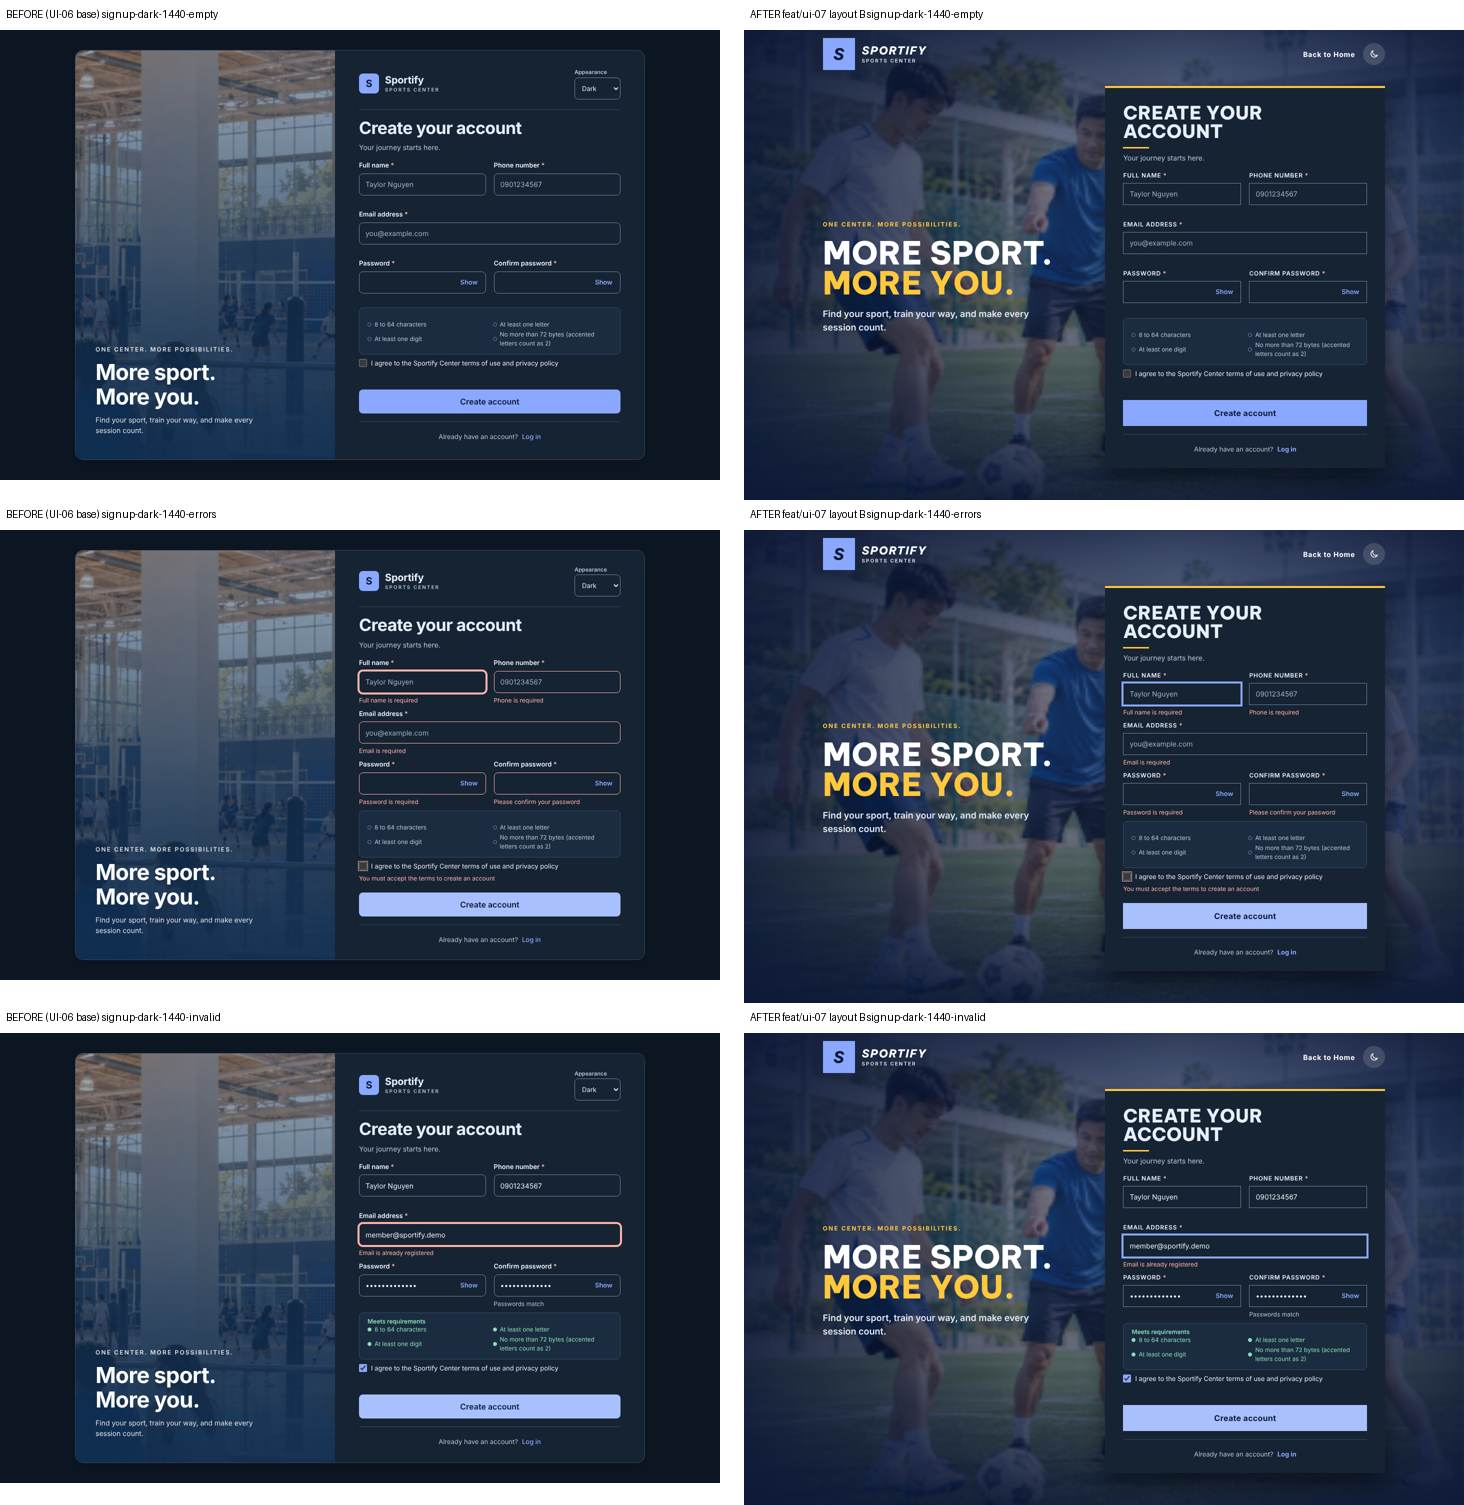
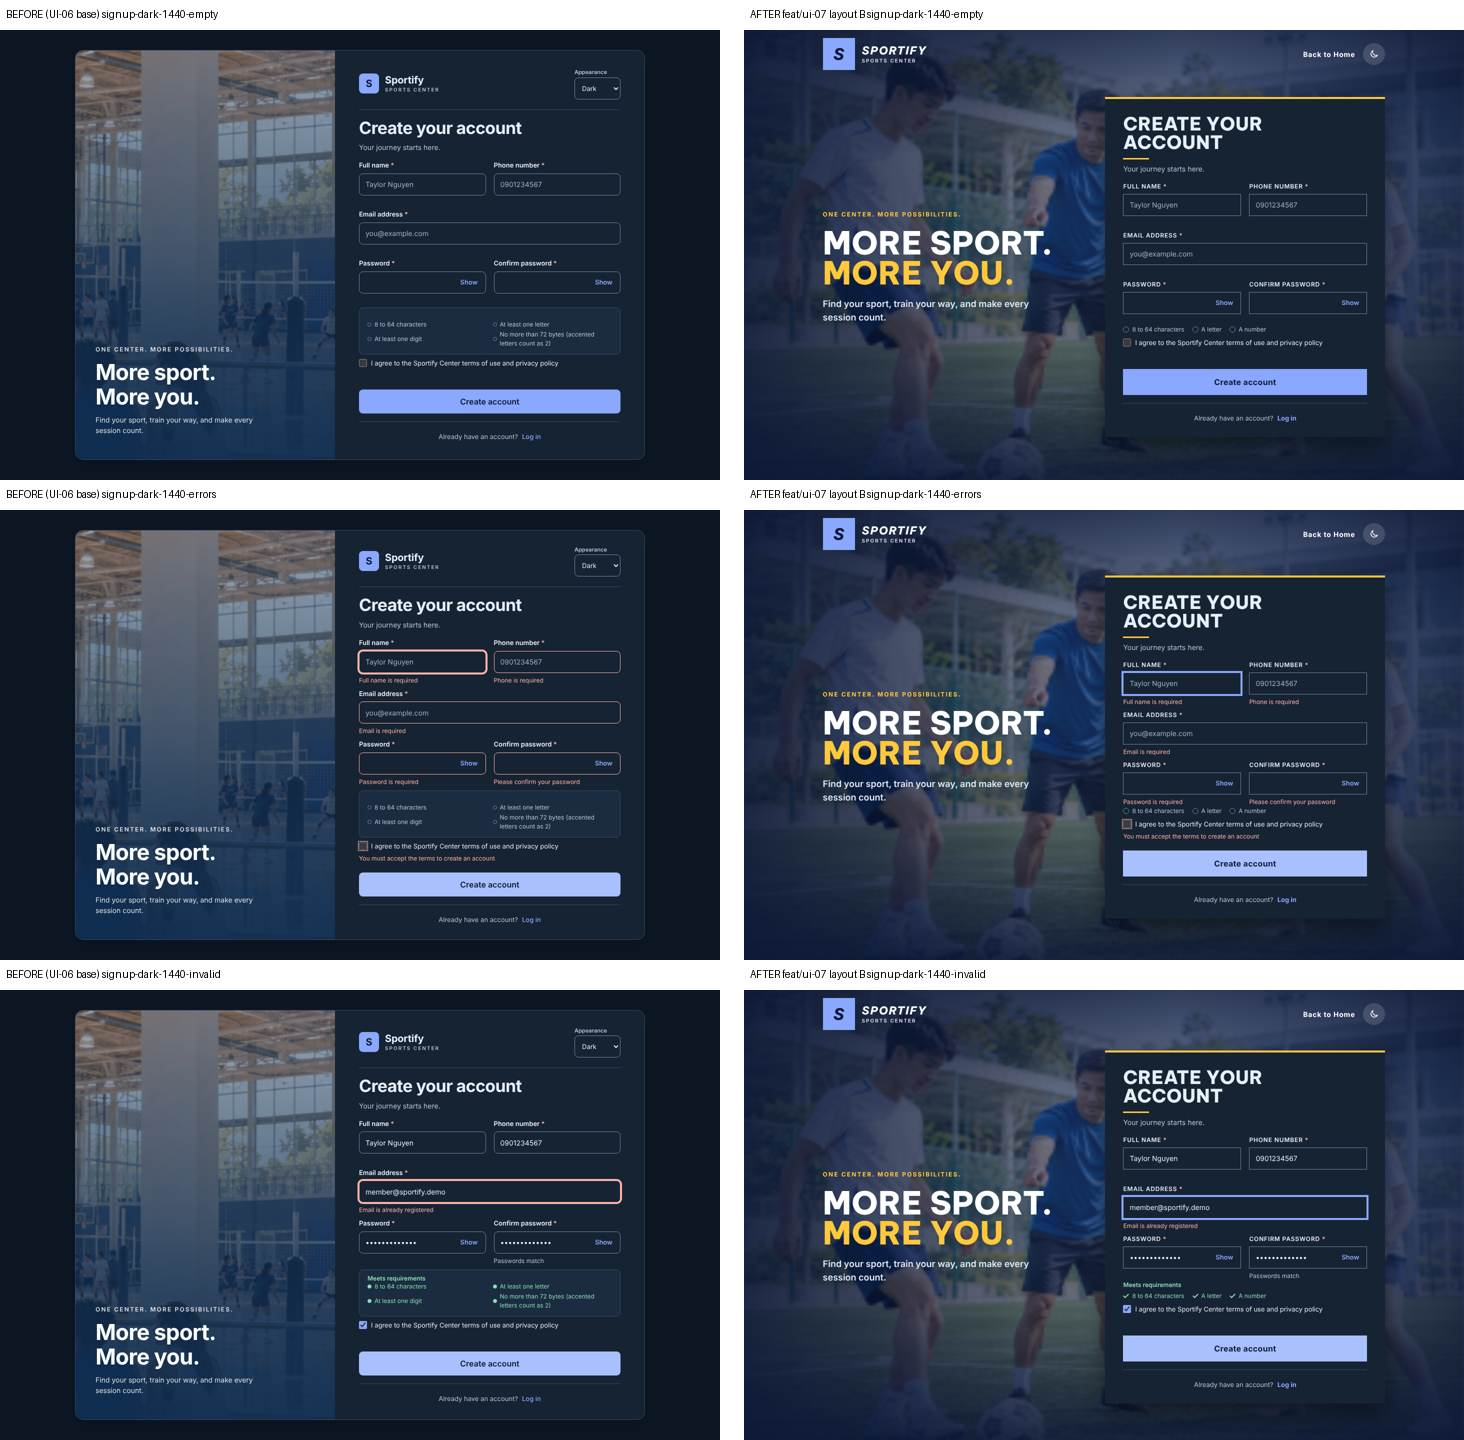
fix(ui-07): password checklist like real sign up forms
- Show only 8 to 64 characters, A letter, A number as one line with check marks, no box
- Show the 72 byte BCrypt limit only as an error line when a password breaks it (still enforced)
- Update tests, evidence, test cases and CHANGELOG

Claude-Session: https://claude.ai/code/session_01NaVe21WbR7JN7RVX8vDE8A

diff --git a/frontend/src/pages/public/authScreens.test.tsx b/frontend/src/pages/public/authScreens.test.tsx
@@ -1028,14 +1028,37 @@ describe('FE-01 review fixes (round 3)', () => {
       renderApp('/register')
       const password = await screen.findByLabelText(/^password/i)
 
-      for (const rule of ['length', 'letter', 'digit', 'bytes']) {
+      for (const rule of ['length', 'letter', 'digit']) {
         expect(document.querySelector(`[data-rule="${rule}"]`)).toHaveAttribute('data-met', 'false')
       }
+      expect(document.querySelector('[data-rule="bytes"]')).toBeNull()
       expect(screen.queryByText(/Password strength|Meets requirements/)).not.toBeInTheDocument()
 
       await user.type(password, 'a')
       await user.clear(password)
-      expect(document.querySelector('[data-rule="bytes"]')).toHaveAttribute('data-met', 'false')
+      expect(document.querySelector('[data-rule="bytes"]')).toBeNull()
+    })
+  })
+
+  describe('N6b byte limit only when broken', () => {
+    it('lists only length, a letter and a number, and shows the byte limit as an error only when the password breaks it', async () => {
+      installFakeFetch(authBackend())
+      const user = userEvent.setup()
+      renderApp('/register')
+      const password = await screen.findByLabelText(/^password/i)
+      await user.type(password, 'abc12345')
+      expect(screen.getByText('8 to 64 characters')).toBeInTheDocument()
+      expect(screen.getByText('A letter')).toBeInTheDocument()
+      expect(screen.getByText('A number')).toBeInTheDocument()
+      expect(screen.queryByText(/bytes|accented/)).not.toBeInTheDocument()
+
+      await user.clear(password)
+      await user.click(password)
+      await user.paste(`${'\u00E9'.repeat(36)}1`)
+      const tooLong = document.querySelector('[data-rule="bytes"]') as HTMLElement
+      expect(tooLong).toHaveAttribute('data-met', 'false')
+      expect(tooLong).toHaveClass('password-rules__item--error')
+      expect(within(tooLong).getByText('Too long: use fewer accented letters or symbols')).toBeInTheDocument()
     })
   })
 

diff --git a/frontend/src/components/PasswordRules.tsx b/frontend/src/components/PasswordRules.tsx
@@ -10,6 +10,8 @@ const PROGRESS_LABELS = {
 /**
  * Live checklist of the password rules (same rules as the backend @StrongPassword), shown under
  * a new password field. Used by Sign up (F1-06) and the change password form of My Profile (F1-08).
+ * Only the three rules people need to know are listed (length, a letter, a number), like most sign up forms.
+ * The 72 byte limit (BCrypt) appears only when a password breaks it, as an error line.
  */
 export function PasswordRules({ id, password }: { id: string; password: string }) {
   const rules = checkPassword(password)
@@ -22,10 +24,10 @@ export function PasswordRules({ id, password }: { id: string; password: string }
         </p>
       )}
       <ul className="password-rules__list">
-        {rules.map((rule) => (
+        {rules.filter((rule) => rule.id !== 'bytes' || (password !== '' && !rule.met)).map((rule) => (
           <li
             key={rule.id}
-            className={`password-rules__item${rule.met ? ' password-rules__item--met' : ''}`}
+            className={`password-rules__item${rule.met ? ' password-rules__item--met' : ''}${rule.id === 'bytes' ? ' password-rules__item--error' : ''}`}
             data-rule={rule.id}
             data-met={rule.met}
           >

diff --git a/frontend/src/styles/components.css b/frontend/src/styles/components.css
@@ -396,9 +396,9 @@
 }
 
 .password-rules__list {
-  display: grid;
-  grid-template-columns: repeat(2, minmax(0, 1fr));
-  gap: 2px var(--space-3);
+  display: flex;
+  flex-wrap: wrap;
+  gap: 4px 16px;
   margin: 0;
   padding: 0;
   list-style: none;
@@ -412,11 +412,13 @@
   color: var(--color-text-muted);
 }
 
+/* Empty circle until the rule is met, then a check mark. */
 .password-rules__item::before {
   content: '';
   flex-shrink: 0;
-  width: 8px;
-  height: 8px;
+  box-sizing: border-box;
+  width: 12px;
+  height: 12px;
   border: 1.5px solid var(--color-border-strong);
   border-radius: 50%;
 }
@@ -426,14 +428,22 @@
 }
 
 .password-rules__item--met::before {
-  border-color: var(--color-success);
-  background: var(--color-success);
+  width: 6px;
+  height: 11px;
+  margin: 0 3px 2px;
+  border: solid var(--color-success);
+  border-width: 0 2px 2px 0;
+  border-radius: 0;
+  transform: rotate(45deg);
 }
 
-@media (max-width: 640px) {
-  .password-rules__list {
-    grid-template-columns: 1fr;
-  }
+.password-rules__item--error {
+  flex-basis: 100%;
+  color: var(--color-danger);
+}
+
+.password-rules__item--error::before {
+  border-color: var(--color-danger);
 }
 
 .select-wrap {

diff --git a/frontend/src/styles/auth.test.ts b/frontend/src/styles/auth.test.ts
@@ -47,10 +47,10 @@ describe('Log in and Sign up theme (layout B)', () => {
     }
   })
 
-  it('squares fields, button and password rules, aligns the Remember me row, widens the Sign up card and folds the photo on narrow screens', () => {
+  it('squares fields and button, keeps the password checklist out of a box, aligns the Remember me row, widens the Sign up card and folds the photo on narrow screens', () => {
     expect(auth).toMatch(/\.auth-stage \.input \{[^}]*border-radius: 0;/)
     expect(auth).toMatch(/\.auth-stage \.auth-form \.btn--primary \{[^}]*border-radius: 0;/)
-    expect(auth).toMatch(/\.auth-stage \.password-rules \{[^}]*border-radius: 0;/)
+    expect(`${auth}\n${layouts}`).not.toMatch(/\.password-rules \{[^}]*(border|background):/)
     expect(auth).toMatch(/\.auth-stage \.auth-form__options \{[^}]*align-items: flex-start;/)
     expect(auth).toMatch(/\.auth-shell--register \.auth-stage__body \{[^}]*grid-template-columns: minmax\(0, 1fr\) 560px;/)
     expect(auth).toMatch(/@media \(max-width: 960px\) \{[\s\S]*?\.auth-stage__photo,\s*\.auth-stage::before \{[^}]*height: 360px;/)

diff --git a/frontend/src/auth/passwordRules.ts b/frontend/src/auth/passwordRules.ts
@@ -58,11 +58,12 @@ export function checkPassword(value: string): PasswordRuleResult[] {
       label: `${PASSWORD_MIN_LENGTH} to ${PASSWORD_MAX_LENGTH} characters`,
       met: value.length >= PASSWORD_MIN_LENGTH && value.length <= PASSWORD_MAX_LENGTH,
     },
-    { id: 'letter', label: 'At least one letter', met: codeUnitMatches(value, LETTER) },
-    { id: 'digit', label: 'At least one digit', met: codeUnitMatches(value, DIGIT) },
+    { id: 'letter', label: 'A letter', met: codeUnitMatches(value, LETTER) },
+    { id: 'digit', label: 'A number', met: codeUnitMatches(value, DIGIT) },
     {
       id: 'bytes',
-      label: `No more than ${PASSWORD_MAX_BYTES} bytes (accented letters count as 2)`,
+      // Only shown when broken (see PasswordRules): the BCrypt byte limit is a technical rule people rarely reach.
+      label: 'Too long: use fewer accented letters or symbols',
       met: !empty && utf8ByteLength(value) <= PASSWORD_MAX_BYTES,
     },
   ]

diff --git a/frontend/src/styles/layouts.css b/frontend/src/styles/layouts.css
@@ -106,18 +106,9 @@
   min-height: 46px;
 }
 
-.auth-form .password-rules__strength {
-  position: absolute;
-  top: var(--space-2);
-  left: var(--space-4);
-}
-
+/* Password checklist sits under the two password fields as one quiet line, no box. */
 .auth-form .password-rules {
-  position: relative;
-  padding: var(--space-6) var(--space-4) var(--space-3);
-  border: 1px solid var(--color-border);
-  border-radius: var(--radius-md);
-  background: var(--color-surface-muted);
+  margin-top: calc(var(--space-2) * -1);
 }
 
 .auth-form .btn {

diff --git a/frontend/src/styles/auth.css b/frontend/src/styles/auth.css
@@ -229,12 +229,6 @@
   font-size: clamp(3rem, 4.4vw, 4.25rem);
 }
 
-.auth-stage .password-rules {
-  border-color: var(--color-border);
-  border-radius: 0;
-  background: var(--color-surface-muted);
-}
-
 /* Card content. */
 .auth-stage .auth-panel__heading p,
 .auth-stage .auth-panel__footer {

diff --git a/frontend/docs/UI-07-test-cases.md b/frontend/docs/UI-07-test-cases.md
@@ -30,10 +30,11 @@ Branch: based on `feat/ui-06` (which contains UI-00 and UI-03). Merge order: UI-
 | TC-02 | Home photo, header and switch | Unit | Home hero photo with fallback, Back to Home, shared `ThemeToggle`, no Appearance select | Pass |
 | TC-03 | Old split card retired | Unit | No `.auth-shell`, `.auth-hero` or toolbar rules; `auth-hero.jpg` deleted; no unused asset left | Pass |
 | TC-04 | No local palette, shared tokens | Unit | No `--login-*` or dark block; hero, navy, highlight, display font, focus ring and primary tokens used | Pass |
-| TC-05 | Shapes and widths | Unit | Square fields, button and password rules; Sign up card 560 px; photo band at 960 px | Pass |
+| TC-05 | Shapes and widths | Unit | Square fields and button; password checklist without a box; Sign up card 560 px; photo band at 960 px | Pass |
+| TC-05b | Password checklist like real sign up forms | Unit | Lists only 8 to 64 characters, A letter, A number with a check mark when met; the 72 byte limit shows only as an error line when broken | Pass |
 | TC-06 | No raw colors | Unit (color freeze) | `auth.css` has none; baseline tightened after the split card colors left `layouts.css` | Pass |
-| TC-07 | Existing Sign up and Log in behavior | Unit (existing suites) | Registration, validation, duplicate email, automatic sign in, theme persistence and return navigation unchanged | Pass (1400 tests) |
-| TC-08 | Text contrast as rendered | Browser: 2 themes x 3 widths x 3 states (empty, field errors, email already registered) | Card text, rules, links, button, errors and alerts against their real background; header and slogan against the overlay navy; at least 4.5:1 (3:1 large) | Pass (lowest 4.96:1, password rules) |
+| TC-07 | Existing Sign up and Log in behavior | Unit (existing suites) | Registration, validation, duplicate email, automatic sign in, theme persistence and return navigation unchanged | Pass (1401 tests) |
+| TC-08 | Text contrast as rendered | Browser: 2 themes x 3 widths x 3 states (empty, field errors, email already registered) | Card text, checklist, links, button, errors and alerts against their real background; header and slogan against the overlay navy; at least 4.5:1 (3:1 large) | Pass (lowest 5.2:1, password rules) |
 | TC-09 | No horizontal overflow, card below header | Browser: 390, 768, 1440 px | Page never wider than the window; card starts below the header | Pass |
 | TC-10 | Visible keyboard focus | Browser: theme switch, full name, Show password, terms checkbox, Create account | Each shows a focus ring | Pass |
 | TC-11 | Sign up still works | Browser: valid form, mocked API | Leaves `/register` for `/member` | Pass |

diff --git a/CHANGELOG.md b/CHANGELOG.md
@@ -1,11 +1,12 @@
 ## 2026-10-24 - Redesign Sign up to the Home theme (UI-07)
 
-- Sign up moves to the same layout B as Log in: Home hero photo under the Home overlay, compact Home header (brand, Back to Home, sun and moon switch), slogan on the left, form card on the right (560 px for the two-field rows and password rules), photo band on phones. Password rules box is squared to match.
+- Sign up moves to the same layout B as Log in: Home hero photo under the Home overlay, compact Home header (brand, Back to Home, sun and moon switch), slogan on the left, form card on the right (560 px for the two-field rows and password rules), photo band on phones. The password checklist is one quiet line without a box.
 - AuthShell keeps a single layout and loads src/styles/auth.css (renamed from login.css) and the display fonts itself, so Log in and Sign up cannot drift apart.
 - Retire the old split card: .auth-shell, .auth-hero and .auth-panel__toolbar rules leave layouts.css and appearance.css, and the unsourced src/assets/auth-hero.jpg is deleted; the credit now reads Home, Log in and Sign up. Color baseline tightened.
 - Behavior unchanged (POST /auth/register, automatic sign in, validation, password rules, terms, return navigation).
-- Tests: src/styles/auth.test.ts (both screens). Browser check scripts/ui07-signup-check.py (light and dark, 390, 768 and 1440 px, empty, field errors and duplicate email): contrast at least 4.5:1 (lowest 4.96:1), visible focus, no overflow, sign up reaches /member; the Log in check still passes on this build. Sheets and report in frontend/docs/screenshots/ui-07; cases in frontend/docs/UI-07-test-cases.md.
-- Lint, tsc, all frontend tests (1400) and the production build pass.
+- Password checklist reads like a normal sign up form: one quiet line under the password fields (8 to 64 characters, A letter, A number) with check marks, no box. The 72 byte BCrypt limit is still enforced but shows only as an error line when a password breaks it. Applies to My Profile change password too (shared component).
+- Tests: src/styles/auth.test.ts (both screens). Browser check scripts/ui07-signup-check.py (light and dark, 390, 768 and 1440 px, empty, field errors and duplicate email): contrast at least 4.5:1 (lowest 5.2:1), visible focus, no overflow, sign up reaches /member; the Log in check still passes on this build. Sheets and report in frontend/docs/screenshots/ui-07; cases in frontend/docs/UI-07-test-cases.md.
+- Lint, tsc, all frontend tests (1401) and the production build pass.
 
 ## 2026-10-24 - Redesign Log in to the Home theme (UI-06)
 
